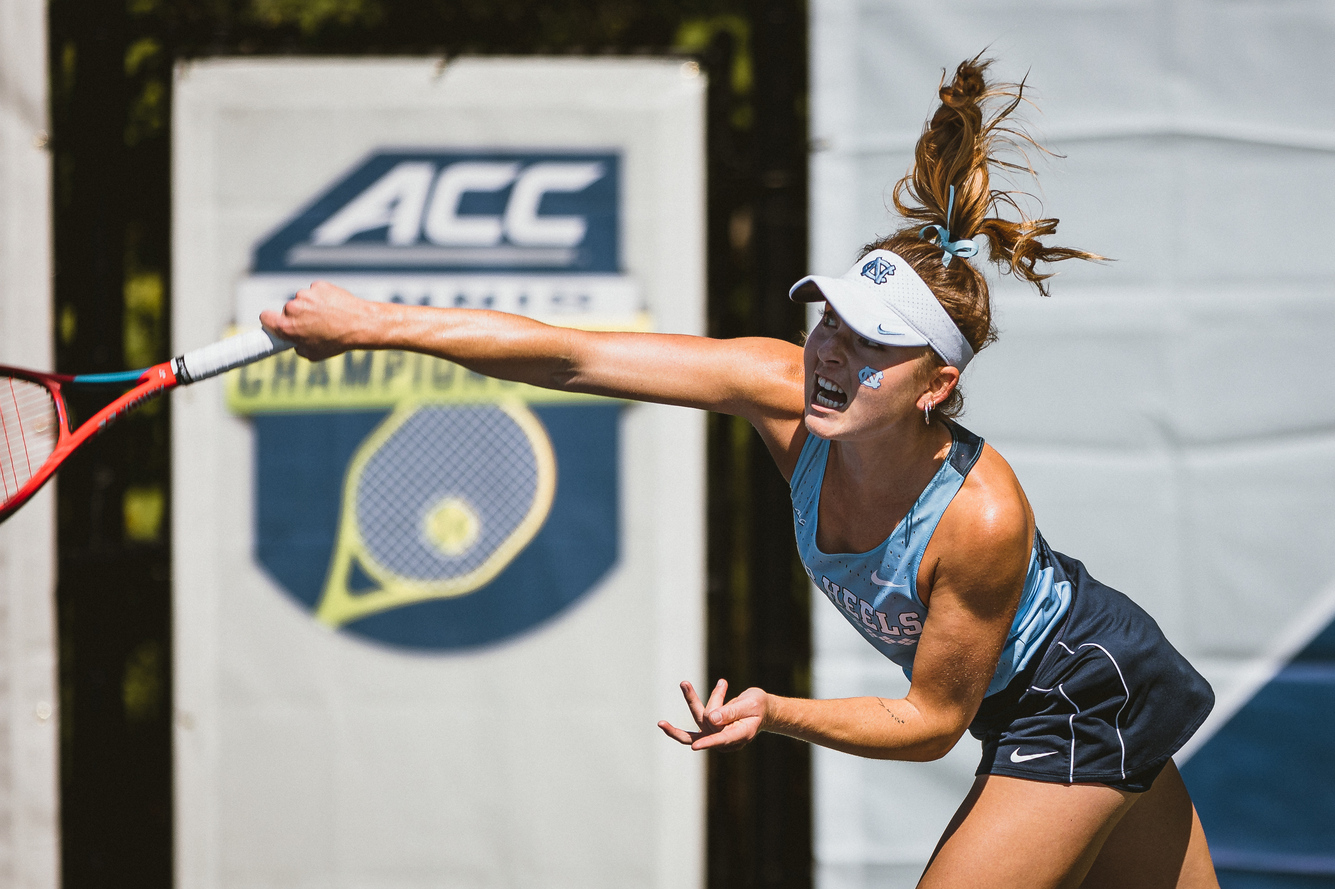
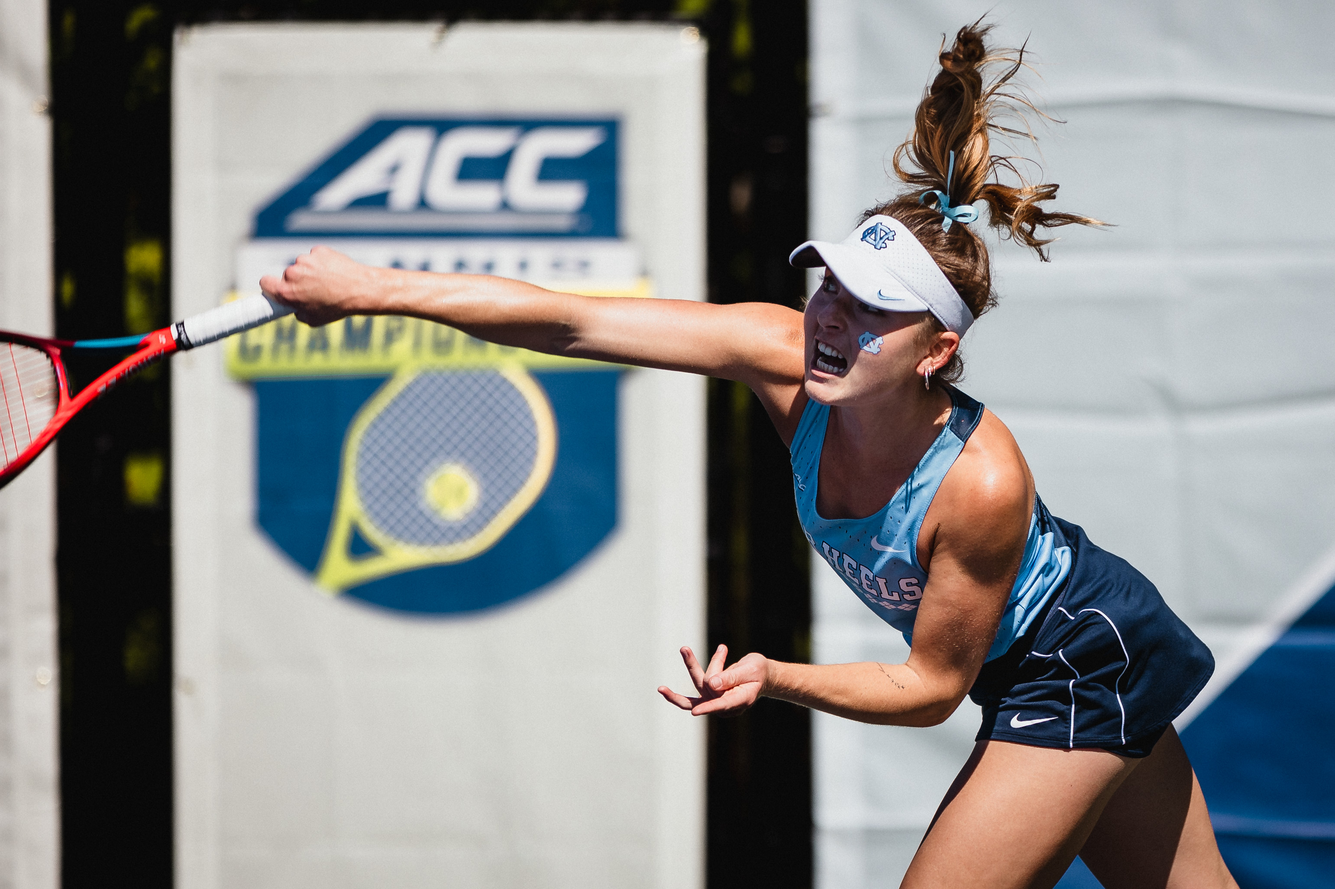
overhaul sports

diff --git a/sports/index.html b/sports/index.html
@@ -11,13 +11,19 @@
     <link rel="stylesheet" type="text/css" href="../css/main.css">
     <link rel="stylesheet" href="https://cdnjs.cloudflare.com/ajax/libs/font-awesome/4.7.0/css/font-awesome.min.css">
     <style>
+        @media (min-width: 576px) {
+            img {
+                max-width: 30vw;
+                display: block;
+                margin-left: auto;
+                margin-right: auto;
+                object-fit: contain;
+                display: block;
+            }
+        }
+
         img {
-            display: block;
-            margin-left: auto;
-            margin-right: auto;
-            object-fit: contain;
             margin: 0 auto 2%;
-            max-height: 90vh;
         }
     </style>
 </head>
@@ -46,155 +52,50 @@
     <div id="pgtitle" class="d-flex justify-content-center">
         <h1 style="color:#c35858">sports</h1>
     </div>
-    <div>
-        <img src=" ../images/football7.jpg" class="mb-3" alt="">
-        <div class="row g-3">
-            <div class="col-sm">
-                <img src=" ../images/football4.jpg" alt="">
-            </div>
-            <div class="col-sm">
-                <img src=" ../images/football5.jpg" alt="">
-            </div>
+    <div class="row">
+        <div class="col-sm left">
+            <img src=" ../images/football7.jpg" alt="portrait">
+            <img src=" ../images/wsoc2.jpg" alt="portrait">
+            <img src=" ../images/bball4.jpg" alt="portrait">
+            <img src=" ../images/football4.jpg" alt="portrait">
+            <img src=" ../images/golf4.jpg" alt="sport">
+            <img src=" ../images/bball.jpg" alt="portrait">
+            <img src=" ../images/sport1.jpg" alt="sport">
+            <img src=" ../images/wlax3.jpg" alt="portrait">
+            <img src=" ../images/fh1.jpg" alt="sport">
+            <img src=" ../images/golf.jpg" alt="sport">
+            <img src=" ../images/bball2.jpg" alt="sport">
+            <img src=" ../images/baseball5.jpg" alt="sport">
+            <img src=" ../images/golf3.jpg" alt="sport">
+            <img src=" ../images/baseball2.jpg" alt="sport">
+            <img src=" ../images/cheer1.jpg" alt="sport">
+            <img src=" ../images/golf5.jpg" alt="sport">
+            
+            <img src=" ../images/bball6.jpg" alt="sport">
+            
+            
+
+        </div>
+        <div class="col-sm right">
+            <img src=" ../images/bball7.jpg" alt="sport">
+            <img src=" ../images/bball5.jpg" alt="portrait">
+            <img src=" ../images/wsoc1.jpg" alt="portrait">
+            <img src=" ../images/fh2.jpg" alt="portrait">
+            <img src=" ../images/golf2.jpg" alt="sport">
+            <img src=" ../images/wlax.jpg" alt="portrait">
+            <img src=" ../images/baseball9.jpg" alt="sport">
+            <img src=" ../images/tennis2.jpg" alt="portrait">
+            <img src=" ../images/trevi.jpg" alt="sport">
+            <img src=" ../images/fh3.jpg" alt="sport">
+            <img src=" ../images/baseball3.jpg" alt="sport">
+            <img src=" ../images/wlax2.jpg" alt="sport">
+            <img src=" ../images/football1.jpg" alt="sport">
+            <img src=" ../images/kon.jpg" alt="sport">
+            
+            <img src=" ../images/tamin1.jpg" alt="sport">
+            <img src=" ../images/baseball8.jpg" alt="sport">
         </div>
     </div>
-    <div class="pt-3">
-        <img src=" ../images/bball4.jpg" class="mb-3" alt="basketball">
-        <div class="row g-3">
-            <div class="col-sm">
-                <img src=" ../images/bball3.jpg" alt="basketball">
-            </div>
-            <div class="col-sm">
-                <img src=" ../images/bball5.jpg" alt="basketball">
-            </div>
-        </div>
-    </div>
-
-    <div class="pt-3">
-        <img src=" ../images/wsoc1.jpg" class="mb-3" alt="">
-        <div class="row g-3">
-            <div class="col-sm">
-                <img src=" ../images/wsoc4.jpg" alt="">
-            </div>
-            <div class="col-sm">
-                <img src=" ../images/wsoc2.jpg" alt="">
-            </div>
-        </div>
-    </div>
-
-    <div class="pt-3">
-        <img src=" ../images/bball.jpg" class="mb-3" alt="basketball">
-        <div class="row g-3">
-            <div class="col-sm">
-                <img src=" ../images/trevi.jpg" alt="basketball">
-            </div>
-            <div class="col-sm">
-                <img src=" ../images/bball2.jpg" alt="basketball">
-            </div>
-        </div>
-    </div>
-
-    <div class="pt-3">
-        <img src=" ../images/fh2.jpg" class="mb-3" alt="">
-        <div class="row g-3">
-            <div class="col-sm">
-                <img src=" ../images/fh1.jpg" alt="">
-            </div>
-            <div class="col-sm">
-                <img src=" ../images/fh3.jpg" alt="">
-            </div>
-        </div>
-    </div>
-
-    <div class="pt-3">
-        <img src=" ../images/wlax.jpg" class="mb-3" alt="">
-        <div class="row g-3">
-            <div class="col-sm">
-                <img src=" ../images/wlax3.jpg" alt="">
-            </div>
-            <div class="col-sm">
-                <img src=" ../images/wlax2.jpg" alt="">
-            </div>
-        </div>
-    </div>
-
-    <div class="pt-3">
-        <div class="row g-3">
-            <div class="col-sm">
-                <img src=" ../images/tennis.jpg" alt="tennis">
-            </div>
-            <div class="col-sm">
-                <img src=" ../images/tennis4.jpg" alt="tennis">
-            </div>
-        </div>
-        <div class="row g-3 pt-3">
-            <div class="col-sm">
-                <img src=" ../images/tennis2.jpg" alt="tennis">
-            </div>
-            <div class="col-sm">
-                <img src=" ../images/tennis5.jpg" alt="tennis">
-            </div>
-        </div>
-    </div>
-
-    <div class="pt-3">
-        <img src=" ../images/baseball6.jpg" class="mb-3" alt="baseball">
-        <div class="row g-3">
-            <div class="col-sm">
-                <img src=" ../images/baseball5.jpg" alt="baseball">
-            </div>
-            <div class="col-sm">
-                <img src=" ../images/baseball7.jpg" alt="baseball">
-            </div>
-        </div>
-    </div>
-
-    <div class="pt-3">
-        <img src=" ../images/bball6.jpg" class="mb-3" alt="basketball">
-        <div class="row g-3">
-            <div class="col-sm">
-                <img src=" ../images/bball7.jpg" alt="basketball">
-            </div>
-            <div class="col-sm">
-                <img src=" ../images/bball8.jpg" alt="basketball">
-            </div>
-        </div>
-    </div>
-    <img src=" ../images/vball.jpg" alt="vball" class="pt-3">
-
-    <div class="pt-3">
-        <img src=" ../images/baseball2.jpg" class="mb-3" alt="baseball">
-        <div class="row g-3">
-            <div class="col-sm">
-                <img src=" ../images/baseball3.jpg" alt="baseball">
-            </div>
-            <div class="col-sm">
-                <img src=" ../images/baseball4.jpg" alt="baseball">
-            </div>
-        </div>
-    </div>
-
-    <img src=" ../images/football1.jpg" alt="fball" class="pt-3">
-    <img src=" ../images/cheer1.jpg" alt="cheer" class="pt-3">
-
-    <div class="row g-3 pt-3">
-        <div class="col-sm">
-            <img src=" ../images/soccer1.jpg" alt="soccer" style="width:100%">
-        </div>
-        <div class="col-sm">
-            <img src=" ../images/soccer3.jpg" alt="soccer" style="width:100%">
-        </div>
-        <div class="col-sm">
-            <img src=" ../images/kon.jpg" alt="xc" style="width:100%">
-        </div>
-    </div>
-
-    <div class="row g-3 pt-3">
-        <div class="col-sm">
-            <img src=" ../images/swim1.jpg" alt="swim" style="width:100%">
-        </div>
-        <div class="col-sm">
-            <img src=" ../images/swim2.jpg" alt="swim" style="width:100%">
-        </div>
     </div>
 
     <footer>

diff --git a/about/index.html b/about/index.html
@@ -42,7 +42,7 @@
             <div class="col-md">
                 <p>Derek Peng is an Iowa raised, North Carolina based photographer. He began shooting as a teenager,
                     documenting stories for his high school's yearbook. Over the years, Derek has crafted his own style
-                    of photography, combining the raw emotion of each moment with a dreamlike quality. He is committed
+                    of photography, combining the raw emotion of each moment with a dreamlike touch. He is committed
                     to dreaming big and remaining curious—always learning, never settling. </p>
 
                 <p><a href="mailto:picsbypenger@gmail.com">picsbypenger@gmail.com</a>

diff --git a/css/main.css b/css/main.css
@@ -363,12 +363,14 @@ ul.scroll {
     padding: .5em 0 1em 0;
 }
 
-.left * {
-    margin-left: auto;
-    margin-right: 0;
-}
+@media (min-width: 576px) {
+    .left * {
+        margin-left: 10vw;
+        margin-right: 0;
+    }
 
-.right * {
-    margin-left: 0;
-    margin-right: auto;
+    .right * {
+        margin-left: 0;
+        margin-right: 10vw;
+    }
 }
